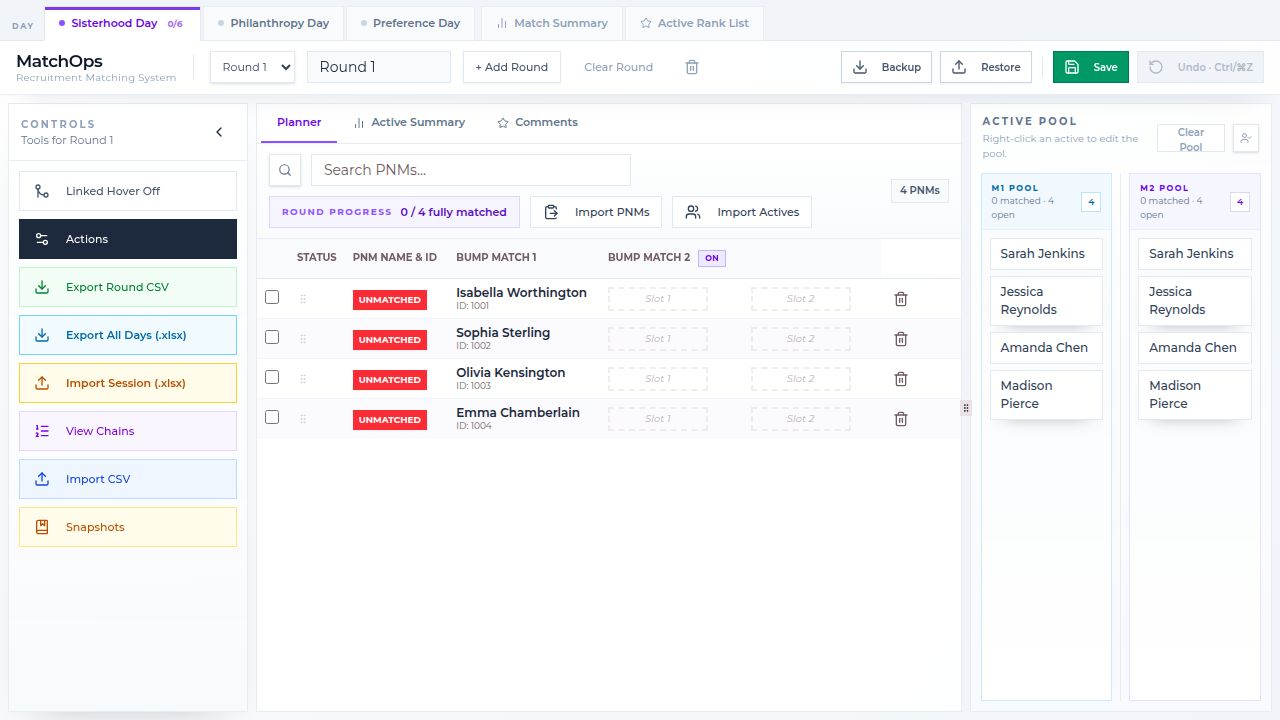
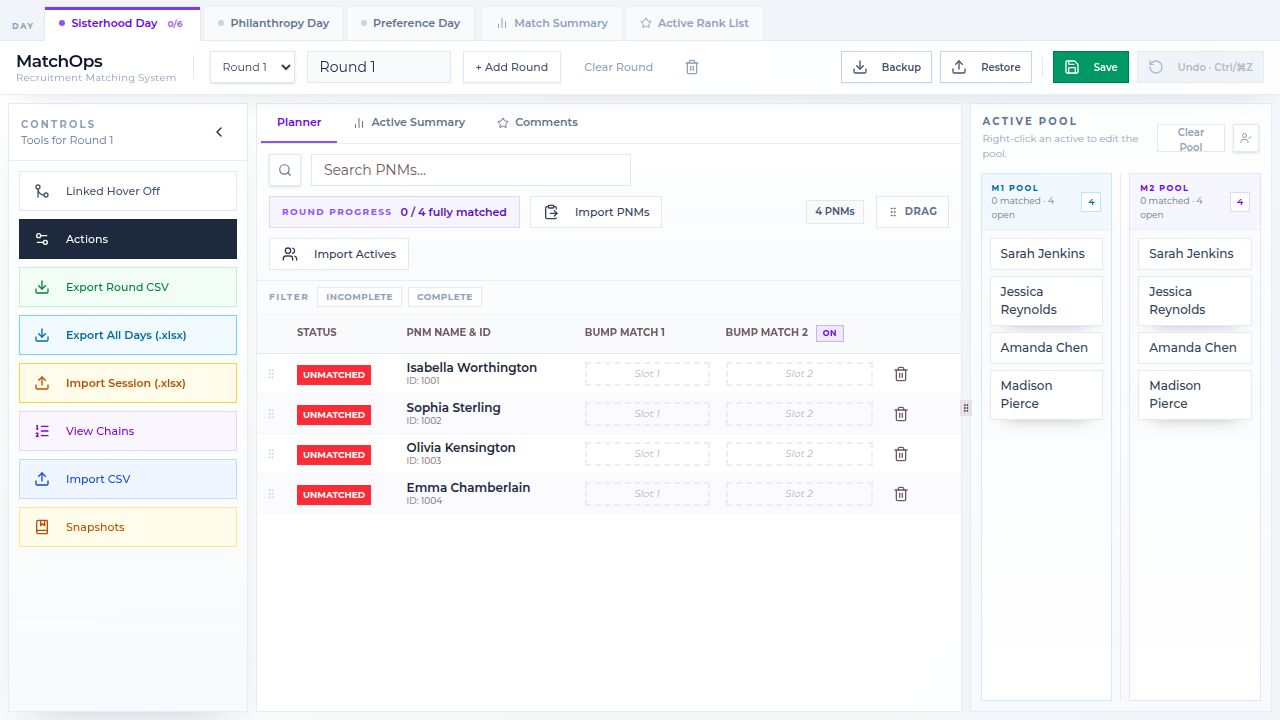
Enable a new click-to-assign mode for recruitment matching
Refactors the recruitment dashboard to implement a click-to-assign mode, allowing users to select an active member and then click on a PNM slot to assign them, alongside the existing drag-and-drop functionality. This involves changes to `ActiveDraggable`, `PNMDropZone`, `SortablePNMRow`, and `dashboard.tsx` to manage the new `assignMode` state and associated click handlers.

Replit-Commit-Author: Agent
Replit-Commit-Session-Id: 38a8cf79-ac95-47f4-b238-5ee4f7307693
Replit-Commit-Checkpoint-Type: full_checkpoint
Replit-Commit-Event-Id: b4cb34a9-7e6e-4aae-9241-3045bdfb4561
Replit-Commit-Screenshot-Url: https://storage.googleapis.com/screenshot-production-us-central1/461f320f-3784-4a51-a7ee-7f857bf5cde1/38a8cf79-ac95-47f4-b238-5ee4f7307693/ufzmsqY
Replit-Helium-Checkpoint-Created: true

diff --git a/client/src/pages/dashboard.tsx b/client/src/pages/dashboard.tsx
@@ -841,7 +841,7 @@ export default function Dashboard() {
   const [commentActiveOverrides, setCommentActiveOverrides] = useState<Record<string, string[]>>({});
   const [statusFilters, setStatusFilters] = useState<Set<string>>(new Set());
   const [assignMode, setAssignMode] = useState<'drag' | 'click'>('drag');
-  const [selectedPnmForAssign, setSelectedPnmForAssign] = useState<string | null>(null);
+  const [selectedActiveForAssign, setSelectedActiveForAssign] = useState<{ id: string; slot: 1 | 2 } | null>(null);
 
   const rounds = useMemo(() => days.find(d => d.id === activeDayId)?.rounds ?? [], [days, activeDayId]);
 
@@ -1766,11 +1766,11 @@ export default function Dashboard() {
     });
   };
 
-  const handleClickAssign = (activeId: string, slot: 1 | 2) => {
-    if (!selectedPnmForAssign) return;
-    const realActiveId = activeId.replace(/-[12]$/, '');
+  const handleClickAssign = (pnmId: string) => {
+    if (!selectedActiveForAssign) return;
+    const { id: activeId, slot } = selectedActiveForAssign;
     const slotKey = slot === 1 ? 'matchedWith' : 'secondMatch';
-    const alreadyUsedInSlot = activeRound.pnms.some(p => p.id !== selectedPnmForAssign && p[slotKey] === realActiveId);
+    const alreadyUsedInSlot = activeRound.pnms.some(p => p.id !== pnmId && p[slotKey] === activeId);
     if (alreadyUsedInSlot) {
       toast.error(`This active is already used as Bump ${slot} by another PNM.`, { className: "rounded-none text-xs font-bold", duration: 3000 });
       return;
@@ -1781,12 +1781,12 @@ export default function Dashboard() {
       return {
         ...r,
         pnms: r.pnms.map(p => {
-          if (p.id !== selectedPnmForAssign) return p;
-          return { ...p, status: 'matched', [slotKey]: realActiveId };
+          if (p.id !== pnmId) return p;
+          return { ...p, status: 'matched', [slotKey]: activeId };
         }),
       };
     }));
-    setSelectedPnmForAssign(null);
+    setSelectedActiveForAssign(null);
   };
 
   const generateChains = () => chainAnalysis.chains.map(chain => ({
@@ -2919,7 +2919,7 @@ export default function Dashboard() {
                 </div>
                 <Badge variant="outline" className="text-[10px] h-6 px-2 rounded-none border-slate-200 bg-slate-50/90 text-slate-600">{activeRound.pnms.length} PNMs</Badge>
                 <button
-                  onClick={() => { setAssignMode(m => m === 'drag' ? 'click' : 'drag'); setSelectedPnmForAssign(null); }}
+                  onClick={() => { setAssignMode(m => m === 'drag' ? 'click' : 'drag'); setSelectedActiveForAssign(null); }}
                   data-testid="button-toggle-assign-mode"
                   title={assignMode === 'drag' ? 'Switch to Click-to-Assign mode' : 'Switch back to Drag-and-Drop mode'}
                   className={`h-8 px-2.5 border text-[10px] font-bold uppercase tracking-wider rounded-none transition-colors flex items-center gap-1.5 ${assignMode === 'click' ? 'bg-violet-100 border-violet-300 text-violet-700 hover:bg-violet-200' : 'bg-white border-slate-200 text-slate-500 hover:border-slate-300 hover:text-slate-700'}`}
@@ -3014,8 +3014,8 @@ export default function Dashboard() {
                               highlightedActiveIds={highlightedActiveIds}
                               isBump2Enabled={isBump2Enabled}
                               assignMode={assignMode}
-                              isSelectedForAssign={selectedPnmForAssign === pnm.id}
-                              onSelectForAssign={id => setSelectedPnmForAssign(prev => prev === id ? null : id)}
+                              selectedActiveForAssign={selectedActiveForAssign}
+                              onClickAssignToSlot={() => handleClickAssign(pnm.id)}
                             />
                           );
                         })}
@@ -3054,8 +3054,8 @@ export default function Dashboard() {
                               highlightedActiveIds={highlightedActiveIds}
                               isBump2Enabled={isBump2Enabled}
                               assignMode={assignMode}
-                              isSelectedForAssign={selectedPnmForAssign === pnm.id}
-                              onSelectForAssign={id => setSelectedPnmForAssign(prev => prev === id ? null : id)}
+                              selectedActiveForAssign={selectedActiveForAssign}
+                              onClickAssignToSlot={() => handleClickAssign(pnm.id)}
                             />
                           );
                         })}
@@ -3179,12 +3179,12 @@ export default function Dashboard() {
               <div className="flex items-center justify-between mb-3 px-0.5 shrink-0">
                 <div>
                   <h3 className="text-[10px] font-bold uppercase tracking-[0.22em] text-slate-500">Active Pool</h3>
-                  {assignMode === 'click' && selectedPnmForAssign ? (
-                    <p className="text-[10px] text-violet-600 font-semibold mt-0.5">
-                      Click an active → assigns to {activeRound.pnms.find(p => p.id === selectedPnmForAssign)?.name}
+                  {assignMode === 'click' && selectedActiveForAssign ? (
+                    <p className="text-[10px] text-green-600 font-semibold mt-0.5">
+                      Now click a Slot {selectedActiveForAssign.slot} box in the table
                     </p>
                   ) : (
-                    <p className="text-[10px] text-slate-400 mt-0.5">{assignMode === 'click' ? 'Click a PNM row to select it.' : 'Right-click an active to edit the pool.'}</p>
+                    <p className="text-[10px] text-slate-400 mt-0.5">{assignMode === 'click' ? 'Click an active to select it.' : 'Right-click an active to edit the pool.'}</p>
                   )}
                 </div>
                 <div className="flex gap-2 items-center">
@@ -3230,8 +3230,8 @@ export default function Dashboard() {
                               handleDeleteActive(active.id);
                             }}
                             assignMode={assignMode}
-                            hasSelectedPnm={!!selectedPnmForAssign}
-                            onClickAssign={() => handleClickAssign(`${active.id}-1`, 1)}
+                            isSelectedForAssign={selectedActiveForAssign?.id === active.id && selectedActiveForAssign?.slot === 1}
+                            onSelectForAssign={() => setSelectedActiveForAssign(prev => prev?.id === active.id && prev?.slot === 1 ? null : { id: active.id, slot: 1 })}
                           />
                         );
                       })}
@@ -3270,8 +3270,8 @@ export default function Dashboard() {
                                   handleDeleteActive(active.id);
                                 }}
                                 assignMode={assignMode}
-                                hasSelectedPnm={!!selectedPnmForAssign}
-                                onClickAssign={() => handleClickAssign(`${active.id}-2`, 2)}
+                                isSelectedForAssign={selectedActiveForAssign?.id === active.id && selectedActiveForAssign?.slot === 2}
+                                onSelectForAssign={() => setSelectedActiveForAssign(prev => prev?.id === active.id && prev?.slot === 2 ? null : { id: active.id, slot: 2 })}
                               />
                             );
                           })}

diff --git a/client/src/components/recruitment/SortablePNMRow.tsx b/client/src/components/recruitment/SortablePNMRow.tsx
@@ -35,15 +35,15 @@ interface SortablePNMRowProps {
   highlightedActiveIds: Set<string>;
   isBump2Enabled?: boolean;
   assignMode?: 'drag' | 'click';
-  isSelectedForAssign?: boolean;
-  onSelectForAssign?: (id: string) => void;
+  selectedActiveForAssign?: { id: string; slot: 1 | 2 } | null;
+  onClickAssignToSlot?: (slot: 1 | 2) => void;
 }
 
 export default function SortablePNMRow({
   pnm, pnms, actives, rowIndex, onUnmatch, onClearBoth, onDelete,
   onHoverStart, onHoverEnd, isHighlighted, isDimmed, dropPreview1, dropPreview2,
   highlightedActiveIds, isBump2Enabled = true,
-  assignMode = 'drag', isSelectedForAssign = false, onSelectForAssign,
+  assignMode = 'drag', selectedActiveForAssign, onClickAssignToSlot,
 }: SortablePNMRowProps) {
   const {
     attributes,
@@ -67,6 +67,9 @@ export default function SortablePNMRow({
   const hasDuplicate2 = isBump2Enabled && !!pnm.secondMatch && pnms.some(otherPnm => otherPnm.id !== pnm.id && otherPnm.secondMatch === pnm.secondMatch);
   const hasDuplicate = hasDuplicate1 || hasDuplicate2;
 
+  const slot1Assignable = assignMode === 'click' && selectedActiveForAssign?.slot === 1 && !pnm.matchedWith;
+  const slot2Assignable = assignMode === 'click' && selectedActiveForAssign?.slot === 2 && !pnm.secondMatch;
+
   const getStatusBadge = () => {
     if (hasDuplicate) {
       return <Badge className="bg-red-500 hover:bg-red-600 text-white border-none rounded-none text-[9px] h-5 px-1.5 uppercase font-bold">Conflict</Badge>;
@@ -86,17 +89,14 @@ export default function SortablePNMRow({
       style={style}
       onMouseEnter={onHoverStart}
       onMouseLeave={onHoverEnd}
-      onClick={assignMode === 'click' ? () => onSelectForAssign?.(pnm.id) : undefined}
       data-testid={`row-pnm-${pnm.id}`}
       className={cn(
         "h-10 border-b border-b-slate-100/90 transition-all relative group",
         rowIndex % 2 === 1 ? "bg-violet-50/45" : "bg-white/80",
-        !isDragging && !isHighlighted && !isSelectedForAssign && "hover:bg-slate-100/85",
+        !isDragging && !isHighlighted && "hover:bg-slate-100/85",
         isDragging && "z-50 bg-white shadow-[0_18px_36px_-26px_rgba(15,23,42,0.45)] opacity-85",
-        isHighlighted && !isSelectedForAssign && "bg-slate-100/90 shadow-[inset_3px_0_0_0_rgb(15_23_42)]",
+        isHighlighted && "bg-slate-100/90 shadow-[inset_3px_0_0_0_rgb(15_23_42)]",
         isDimmed && !isDragging && "opacity-45",
-        isSelectedForAssign && "ring-2 ring-inset ring-violet-500 bg-violet-50/90 shadow-[inset_3px_0_0_0_rgb(124_58_237)]",
-        assignMode === 'click' && !isSelectedForAssign && "cursor-pointer",
       )}
     >
       <TableCell className="py-0.5 w-8 p-0">
@@ -105,7 +105,6 @@ export default function SortablePNMRow({
           {...listeners}
           className="cursor-grab active:cursor-grabbing p-2 text-slate-300 hover:text-slate-600 transition-colors"
           data-testid={`button-drag-pnm-${pnm.id}`}
-          onClick={e => e.stopPropagation()}
         >
           <GripVertical className="h-3 w-3" />
         </div>
@@ -129,6 +128,8 @@ export default function SortablePNMRow({
           isHighlighted={!!pnm.matchedWith && highlightedActiveIds.has(pnm.matchedWith)}
           isDimmed={isDimmed}
           dropPreview={dropPreview1}
+          isClickAssignable={slot1Assignable}
+          onClickAssign={() => onClickAssignToSlot?.(1)}
         />
       </TableCell>
       {isBump2Enabled ? (
@@ -142,6 +143,8 @@ export default function SortablePNMRow({
             isHighlighted={!!pnm.secondMatch && highlightedActiveIds.has(pnm.secondMatch)}
             isDimmed={isDimmed}
             dropPreview={dropPreview2}
+            isClickAssignable={slot2Assignable}
+            onClickAssign={() => onClickAssignToSlot?.(2)}
           />
         </TableCell>
       ) : (

diff --git a/client/src/components/recruitment/ActiveDraggable.tsx b/client/src/components/recruitment/ActiveDraggable.tsx
@@ -12,14 +12,14 @@ interface ActiveDraggableProps {
   onHoverEnd?: () => void;
   onRightClick?: (event: MouseEvent<HTMLDivElement>) => void;
   assignMode?: 'drag' | 'click';
-  onClickAssign?: () => void;
-  hasSelectedPnm?: boolean;
+  onSelectForAssign?: () => void;
+  isSelectedForAssign?: boolean;
 }
 
 export default function ActiveDraggable({
   active, isMatched, isHighlighted, isDimmed,
   onHoverStart, onHoverEnd, onRightClick,
-  assignMode = 'drag', onClickAssign, hasSelectedPnm,
+  assignMode = 'drag', onSelectForAssign, isSelectedForAssign,
 }: ActiveDraggableProps) {
   const { attributes, listeners, setNodeRef, transform, isDragging } = useDraggable({
     id: active.id,
@@ -31,7 +31,6 @@ export default function ActiveDraggable({
   } : undefined;
 
   const isClickMode = assignMode === 'click';
-  const isClickable = isClickMode && !isMatched && hasSelectedPnm;
 
   return (
     <div
@@ -42,17 +41,18 @@ export default function ActiveDraggable({
       onMouseEnter={onHoverStart}
       onMouseLeave={onHoverEnd}
       onContextMenu={isClickMode ? undefined : onRightClick}
-      onClick={isClickMode ? onClickAssign : undefined}
+      onClick={isClickMode && !isMatched ? onSelectForAssign : undefined}
       data-testid={`button-active-${active.id}`}
       className={cn(
-        "py-1.5 px-2.5 border border-slate-200/90 bg-white/95 text-[12px] font-medium text-slate-700 shadow-[0_10px_18px_-16px_rgba(15,23,42,0.55)] transition-all hover:border-slate-300 hover:shadow-[0_14px_24px_-18px_rgba(15,23,42,0.45)] rounded-none",
-        !isClickMode && "touch-none cursor-grab active:cursor-grabbing hover:-translate-y-[1px]",
-        isClickable && "cursor-pointer hover:bg-green-50 hover:border-green-400 hover:text-green-700",
-        isClickMode && !isClickable && !isMatched && "cursor-default opacity-60",
+        "py-1.5 px-2.5 border text-[12px] font-medium text-slate-700 shadow-[0_10px_18px_-16px_rgba(15,23,42,0.55)] transition-all rounded-none",
+        !isClickMode && "bg-white/95 border-slate-200/90 touch-none cursor-grab active:cursor-grabbing hover:border-slate-300 hover:-translate-y-[1px] hover:shadow-[0_14px_24px_-18px_rgba(15,23,42,0.45)]",
+        isClickMode && !isMatched && !isSelectedForAssign && "bg-white/95 border-slate-200/90 cursor-pointer hover:border-violet-400 hover:bg-violet-50/60 hover:text-violet-700",
+        isClickMode && isSelectedForAssign && "bg-green-50 border-green-500 text-green-800 ring-2 ring-green-400 ring-offset-1 cursor-pointer",
+        isClickMode && isMatched && "bg-slate-50/90 border-slate-200/90 text-slate-400 cursor-default opacity-60",
         isDragging && "opacity-55 scale-[1.03] shadow-lg",
-        isMatched && "bg-slate-50/90 text-slate-400",
-        isHighlighted && "border-sky-400 bg-sky-50 text-sky-700 shadow-[0_14px_24px_-18px_rgba(14,116,144,0.45)]",
-        isDimmed && !isDragging && "opacity-30"
+        !isClickMode && isMatched && "bg-slate-50/90 text-slate-400",
+        isHighlighted && !isClickMode && "border-sky-400 bg-sky-50 text-sky-700 shadow-[0_14px_24px_-18px_rgba(14,116,144,0.45)]",
+        isDimmed && !isDragging && !isClickMode && "opacity-30"
       )}
     >
       {active.name}

diff --git a/client/src/components/recruitment/PNMDropZone.tsx b/client/src/components/recruitment/PNMDropZone.tsx
@@ -16,9 +16,11 @@ interface PNMDropZoneProps {
     isOverLimit: boolean;
     wouldCycle: boolean;
   };
+  isClickAssignable?: boolean;
+  onClickAssign?: () => void;
 }
 
-export default function PNMDropZone({ pnm, slot, matchedActiveName, onUnmatch, isDuplicate, isHighlighted, isDimmed, dropPreview }: PNMDropZoneProps) {
+export default function PNMDropZone({ pnm, slot, matchedActiveName, onUnmatch, isDuplicate, isHighlighted, isDimmed, dropPreview, isClickAssignable, onClickAssign }: PNMDropZoneProps) {
   const { setNodeRef, isOver } = useDroppable({
     id: `drop-${pnm.id}-${slot}`,
     data: { pnm, slot },
@@ -53,6 +55,21 @@ export default function PNMDropZone({ pnm, slot, matchedActiveName, onUnmatch, i
   }
 
   const blocked = isOver && (dropPreview?.wouldCycle || dropPreview?.alreadyUsedInSlot);
+
+  if (isClickAssignable) {
+    return (
+      <div
+        onClick={onClickAssign}
+        className={cn(
+          "h-6 border-2 border-dashed flex items-center justify-center text-[10px] px-2 transition-colors min-w-[100px] rounded-none cursor-pointer",
+          "border-green-400 bg-green-50/80 text-green-700 hover:bg-green-100 hover:border-green-500 animate-pulse"
+        )}
+        data-testid={`dropzone-slot-${slot}-${pnm.id}`}
+      >
+        Assign here
+      </div>
+    );
+  }
 
   return (
     <div
